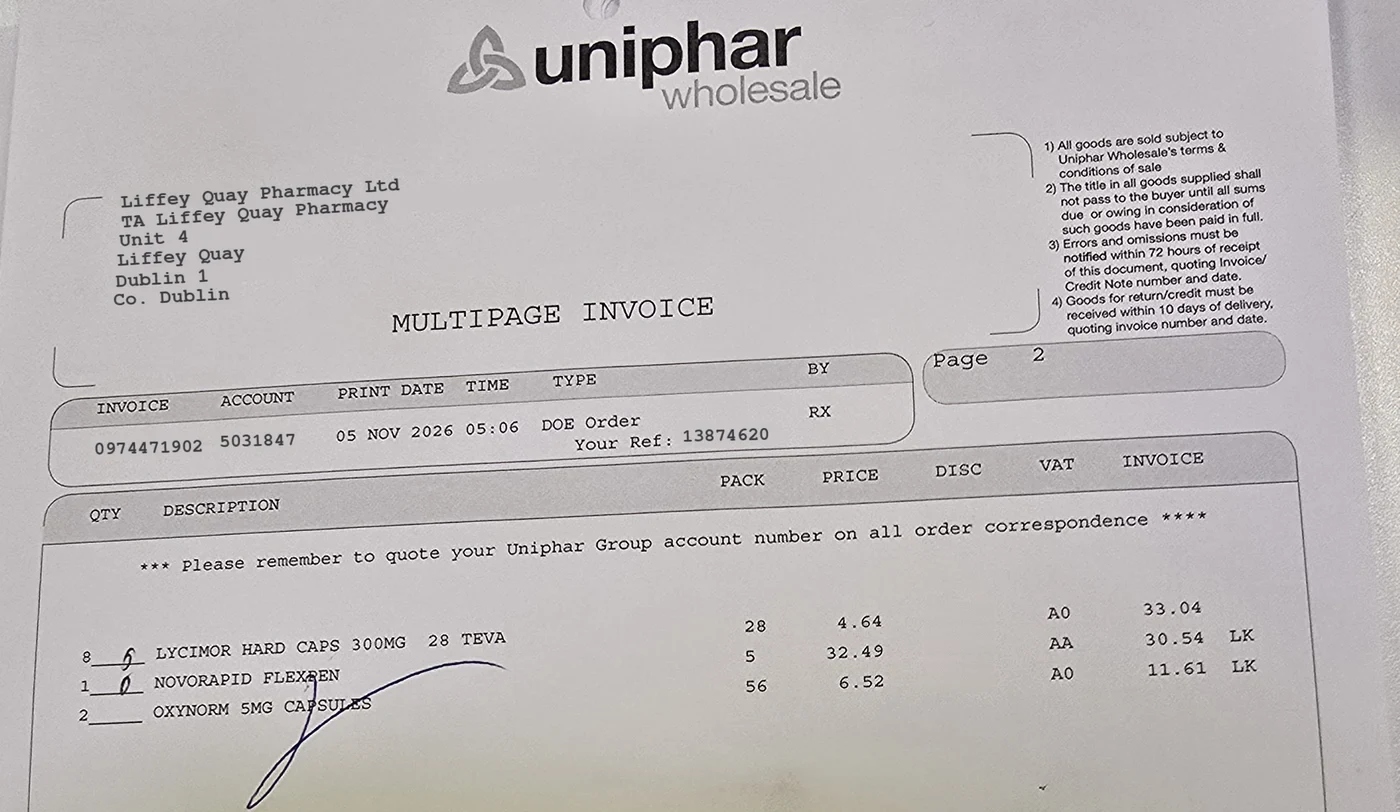
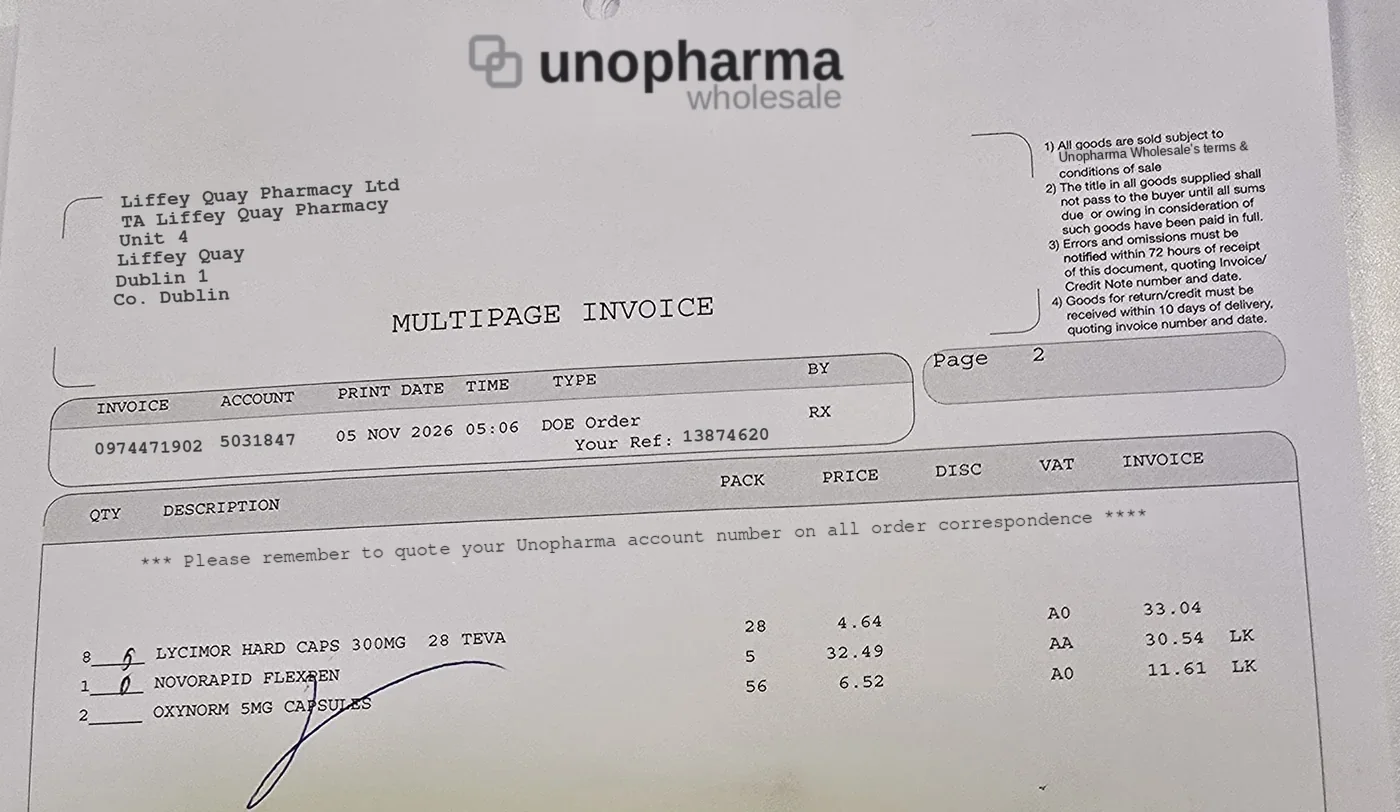
Use a made-up wholesaler (Unopharma) in the home-page invoice photo, invoice animation, guide and demo data
The invoice photo's logo and wording are replaced; real wholesaler names stay
only where the invoice reader needs them to recognise real invoices.

Claude-Session: https://claude.ai/code/session_01Go7b32pAjosKSBce73MqTj

Changed region(s): [[0.0921, 0.6158, 0.86, 0.7081], [0.3071, 0.0308, 0.6143, 0.1539], [0.7371, 0.1539, 0.8907, 0.2155]]

diff --git a/src/components/landing-demos.tsx b/src/components/landing-demos.tsx
@@ -430,7 +430,7 @@ function InvoiceDemo() {
         <div className="flex min-w-0 flex-col">
           <p className="text-xs font-bold uppercase tracking-wide text-muted-foreground">Read from the invoice</p>
           <div className={`mt-2 rounded-lg bg-white px-3 py-2 text-xs text-slate-700 shadow ring-1 ring-slate-200 ${fade(phase >= 2)}`}>
-            <b>Uniphar</b> · Invoice <b>0974471902</b> · 05/11/2026 <span className="block text-[10px] text-slate-500">Invoice number used, not the account number. Already-recorded invoices are caught.</span>
+            <b>Unopharma</b> · Invoice <b>0974471902</b> · 05/11/2026 <span className="block text-[10px] text-slate-500">Invoice number used, not the account number. Already-recorded invoices are caught.</span>
           </div>
           <div className={`mt-2 rounded-lg bg-white p-3 text-sm shadow ring-2 ring-brand/60 ${fade(phase >= 2)}`} style={{ transitionDelay: '250ms' }}>
             <div className="flex items-start justify-between gap-2">
@@ -450,7 +450,7 @@ function InvoiceDemo() {
             <li className="flex items-center gap-1.5"><ScanLine className="h-3.5 w-3.5" /> NovoRapid FlexPen: not a controlled drug</li>
           </ul>
           <h3 className="mt-6 text-2xl font-bold">Photograph the wholesaler invoice</h3>
-          <p className="mt-1 text-muted-foreground">Uniphar, United Drug, PCO and others. Controlled drug lines are picked out, packs × pack size worked out and matched to the right register, each with a confidence level for you to check. Lines that don’t need a register entry, like Oramorph 10mg/5ml, are left out with the reason shown. Nothing is recorded until you sign.</p>
+          <p className="mt-1 text-muted-foreground">Invoices and CD dockets from the main Irish wholesalers. Controlled drug lines are picked out, packs × pack size worked out and matched to the right register, each with a confidence level for you to check. Lines that don’t need a register entry, like Oramorph 10mg/5ml, are left out with the reason shown. Nothing is recorded until you sign.</p>
           <SampleNote className="mt-2" />
         </div>
       </div>

diff --git a/src/lib/demo/mock.ts b/src/lib/demo/mock.ts
@@ -50,7 +50,7 @@ function seedEntries() {
     return out[out.length - 1];
   };
   const UD = { supplier_name: 'United Drug', supplier_address: 'Magna Business Park, Citywest, Dublin 24' };
-  const UN = { supplier_name: 'Uniphar Wholesale', supplier_address: 'Fourth Avenue, Cookstown, Dublin 24' };
+  const UN = { supplier_name: 'Unopharma Wholesale', supplier_address: 'Unit 7, Fifth Avenue, Cookstown, Dublin 24' };
   const BF = (n: string) => ({ supplier_name: 'Balance brought forward', supplier_address: n, notes: 'Opening balance' });
   // Methadone DTF 1mg/ml (OST)
   add('r6', 'receipt', 20, 5000, 's1', BF('Paper register vol. 2, page 3'));
@@ -100,7 +100,7 @@ function seed() {
       { id: 'c2', kind: 'prescriber', name: 'Dr K. Ryan', address: 'Abbey Street Surgery, Ennis, Co. Clare', registration: '023456', gms_number: 'G0002', role: null },
       { id: 'c3', kind: 'prescriber', name: 'Dr L. Nolan', address: 'Quay Street Clinic, Galway', registration: '034567', gms_number: null, role: null },
       { id: 'c4', kind: 'supplier', name: 'United Drug', address: 'Magna Business Park, Citywest, Dublin 24', registration: null, gms_number: null, role: null },
-      { id: 'c5', kind: 'supplier', name: 'Uniphar Wholesale', address: 'Fourth Avenue, Cookstown, Dublin 24', registration: null, gms_number: null, role: null },
+      { id: 'c5', kind: 'supplier', name: 'Unopharma Wholesale', address: 'Unit 7, Fifth Avenue, Cookstown, Dublin 24', registration: null, gms_number: null, role: null },
       { id: 'c6', kind: 'witness', name: 'P. Doyle', address: null, registration: null, gms_number: null, role: 'Authorised officer (PSI)' },
     ] as Json[],
     activeStaffId: null as string | null,

diff --git a/src/components/dashboard/stock-check.tsx b/src/components/dashboard/stock-check.tsx
@@ -121,7 +121,7 @@ function AmendBalance({ check, unit, onDone, onCancel }: { check: Check; unit: s
       <p className="font-semibold">Amend the register balance from {Number(check.register_balance)} to {Number(check.counted)} {unit} ({diff > 0 ? '+' : ''}{diff})</p>
       <p className="text-muted-foreground">This adds a signed <b>stock adjustment</b> line to the register: nothing is overwritten. Only do this once you’ve investigated. An unexplained loss should be reported in line with PSI guidance.</p>
       <div><label className="label">What did you do to investigate, and what did you find?</label>
-        <textarea className="input min-h-[96px]" required minLength={10} value={text} onChange={(e) => setText(e.target.value)} placeholder="e.g. Recounted twice with a second pharmacist. Checked supplies since last check against Rxs and invoices, Uniphar invoice 12345 received 20 but recorded 10." /></div>
+        <textarea className="input min-h-[96px]" required minLength={10} value={text} onChange={(e) => setText(e.target.value)} placeholder="e.g. Recounted twice with a second pharmacist. Checked supplies since last check against Rxs and invoices, wholesaler invoice 12345 received 20 but recorded 10." /></div>
       <label className="flex items-center gap-2"><input type="checkbox" className="h-4 w-4 accent-[#54BD50]" checked={saveNote} onChange={(e) => setSaveNote(e.target.checked)} /> Also save as a note (you can add photos to it)</label>
       {error && <p className="text-destructive">{error}</p>}
       <div className="flex gap-2">

diff --git a/src/components/guides/animations.tsx b/src/components/guides/animations.tsx
@@ -171,7 +171,7 @@ export function CountCompare() {
 /** Paper register's last page photographed; its balance carried forward into a new electronic book. */
 export function PaperToDigital() {
   const { ref, phase } = usePhases([1600, 1200, 1900, 1900, 3200]);
-  const PAPER = [['14/11', 'Rec’d Uniphar', '+56', '182'], ['15/11', 'P. Hehir', '−14', '168'], ['17/11', 'N. Corcoran', '−28', '140']];
+  const PAPER = [['14/11', 'Rec’d Unopharma', '+56', '182'], ['15/11', 'P. Hehir', '−14', '168'], ['17/11', 'N. Corcoran', '−28', '140']];
   return (
     <div ref={ref}>
       <Frame caption="The last paper balance becomes the first electronic line">
